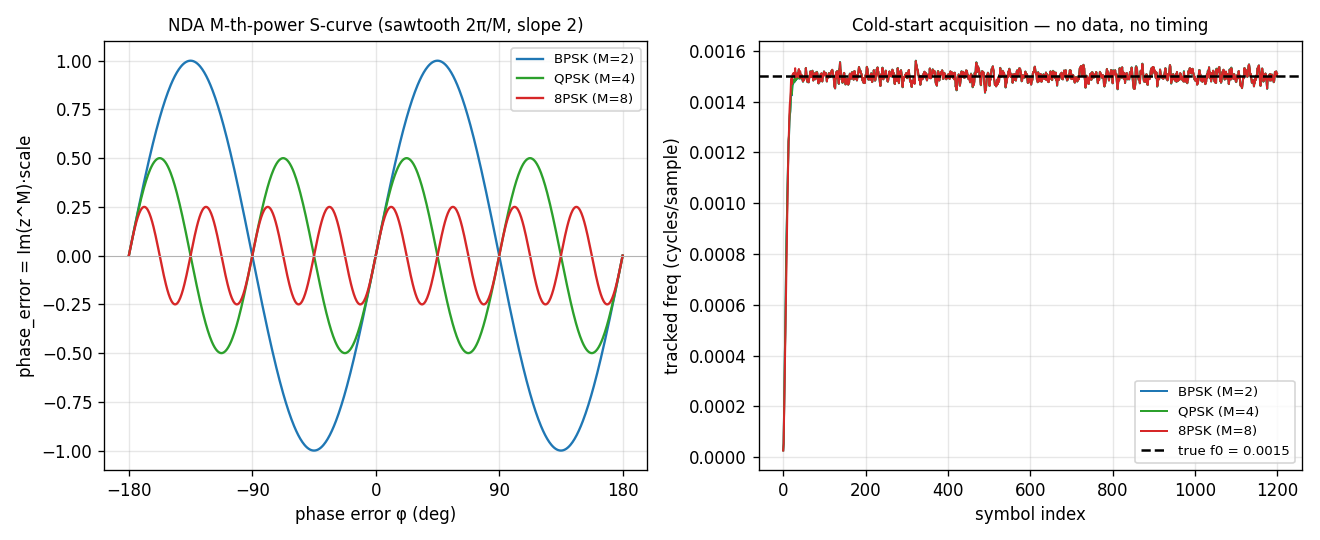
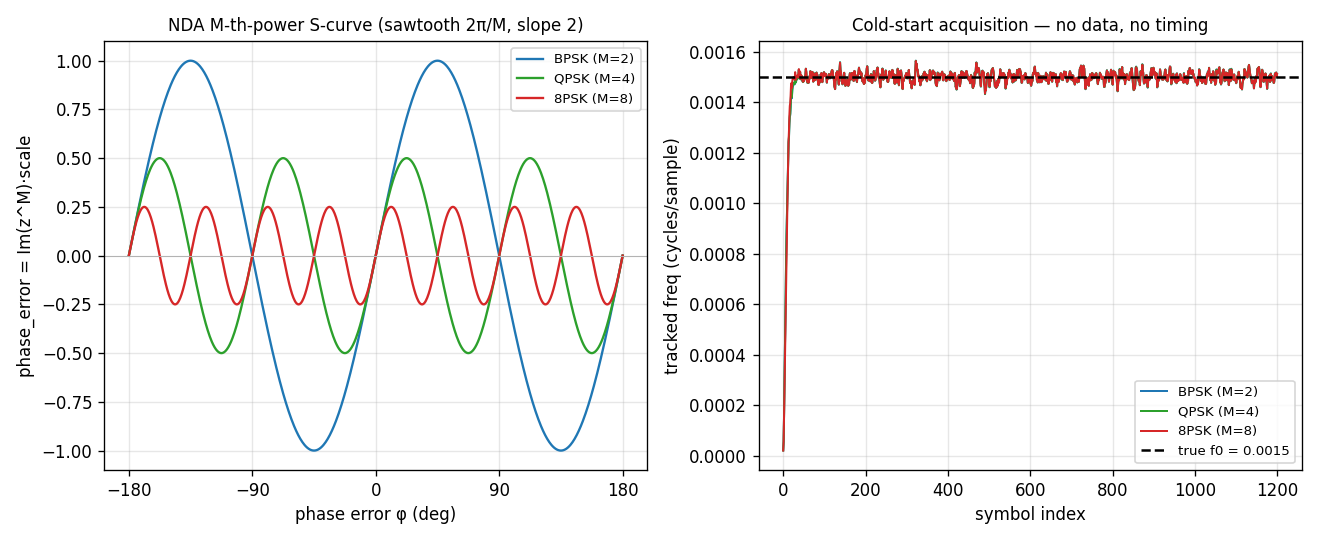
fix(examples): mpsk_nda_theory_demo builds the loop it describes
911c9d01 (#300) redefined CarrierNda's bn from per arm update to
cycles/sample. The demo kept bn=0.02, which at 2 samples per arm update
had been 0.01 cycles/sample, so its loop ran twice as wide. The tracked-
frequency jitter was 3x larger (5.5e-5 against 1.8e-5), and no assert saw
it. The loop is now a stated spec (BN_SPEC = 0.01 cycles/sample, zeta
0.707).

A new assert bounds the tail jitter by the loop's own theory,
sigma_f = sigma/(2 pi) sqrt(Kd wn^3 / (4 zeta)), at 1.5x. Kd is measured
from the demo's S-curve, and wn is read back from LoopFilter's PI gains.
The theory is 1.73e-5, the bound 2.60e-5, and the measurement 1.84e-5 to
1.89e-5. Sabotage (bn=0.02 in _acquire) fails the example gate and
`make gallery`. The re-rendered plot matches the pre-#300 one.

Closes #1675

Claude-Session: https://claude.ai/code/session_01BrZhANYiA19FGBsf5tumCu

diff --git a/src/doppler/examples/mpsk_nda_theory_demo.py b/src/doppler/examples/mpsk_nda_theory_demo.py
@@ -53,6 +53,16 @@ ORDERS = [
 SPS, N = 8, 4
 ARM = SPS // N
 
+# The acquisition panel's loop, as a SPEC: 0.01 cycles/sample, zeta 0.707.
+# 911c9d01 (#300) redefined CarrierNda's bn from "per arm update" to
+# cycles/sample. This demo used to pass bn=0.02, which at ARM = 2 samples per
+# update WAS 0.01 cycles/sample. After #300 the same literal built a loop
+# twice as wide and ~3x as jittery, and nothing noticed (#1675). The jitter
+# assert in main() is derived from this spec, so the loop _acquire builds
+# must be this loop.
+BN_SPEC, ZETA = 0.01, 0.707
+SIGMA = 0.05  # per-component noise std on the unit-amplitude carrier
+
 
 def _disc(m, phi):
     # near-zero bn + NCO at 0 => identity wipe-off; one arm dump => last_error
@@ -61,7 +71,7 @@ def _disc(m, phi):
     return c.last_error
 
 
-def _acquire(m, f0, nsym=1200, seed=0, sigma=0.05):
+def _acquire(m, f0, nsym=1200, seed=0, sigma=SIGMA):
     rng = np.random.default_rng(seed)
     k = np.arange(nsym * SPS)
     rx = np.exp(2j * np.pi * f0 * k)  # unmodulated carrier (no data)
@@ -69,12 +79,43 @@ def _acquire(m, f0, nsym=1200, seed=0, sigma=0.05):
         rng.standard_normal(k.size) + 1j * rng.standard_normal(k.size)
     )
     rx = rx.astype(np.complex64)
-    c = CarrierNda(bn=0.02, zeta=0.707, init_norm_freq=0.0, sps=SPS, n=N, m=m)
+    c = CarrierNda(
+        bn=BN_SPEC, zeta=ZETA, init_norm_freq=0.0, sps=SPS, n=N, m=m
+    )
     freq = np.empty(nsym)
     for s in range(nsym):
         c.steps(rx[s * SPS : (s + 1) * SPS])
         freq[s] = c.norm_freq
     return freq
+
+
+def _jitter_bound(kd):
+    """Tail frequency-jitter bound (cycles/sample) for the BN_SPEC loop.
+
+    The linearised type-2 loop, driven by white phase noise of variance
+    ``SIGMA**2`` rad^2 per sample (a unit carrier with per-component noise
+    ``SIGMA``), leaves its integrator -- the tracked frequency -- with
+
+        sigma_f = SIGMA / (2 pi) * sqrt(Kd * wn**3 / (4 zeta))
+
+    where Kd is the discriminator's slope at lock (the S-curve's, measured
+    by the caller) and wn the loop's natural frequency. wn is not restated
+    here: it is read back from the library's own PI gains, which for the
+    bilinear design satisfy ki/kp = wn*t/(2 zeta), at t = 1 (this loop
+    updates every sample). A step-by-step simulation of the discrete loop
+    (the 2-sample boxcar arm included) agrees with this closed form to 1%.
+    The loop measures ~8% above it, because the model is linear and leaves
+    out the M-th power's higher-order noise terms and the arm AGC, and a
+    600-symbol std is itself uncertain by several percent. So the bound is
+    1.5x the theory: loose enough for both, and well below the ~2.8x that
+    doubling the bandwidth costs (sigma_f grows as bn**1.5).
+    """
+    from doppler.track import LoopFilter
+
+    lf = LoopFilter(BN_SPEC, ZETA, 1.0)
+    wn = 2.0 * ZETA * lf.ki / lf.kp
+    theory = SIGMA / (2 * np.pi) * np.sqrt(kd * wn**3 / (4 * ZETA))
+    return 1.5 * theory, theory
 
 
 def main(out_path="mpsk_nda_theory_demo.png"):
@@ -116,6 +157,16 @@ def main(out_path="mpsk_nda_theory_demo.png"):
         tail_err = abs(float(np.mean(freq[-300:])) - f0)
         print(f"{name}: tail freq err {tail_err:.2e} cycles/sample")
         assert tail_err < 1e-4, f"{name} failed to acquire the carrier"
+        # And it must sit on it with the jitter of the BN_SPEC loop: a
+        # loop built wider than the spec (bn=0.02 is ~2.8x) fails here.
+        kd = (_disc(m, 1e-3) - _disc(m, -1e-3)) / 2e-3  # slope at lock
+        bound, theory = _jitter_bound(kd)
+        jitter = float(np.std(freq[-600:]))
+        print(
+            f"{name}: tail freq jitter {jitter:.2e} (theory {theory:.2e}, "
+            f"bound {bound:.2e}) cycles/sample"
+        )
+        assert jitter < bound, f"{name} tracks with more jitter than BN_SPEC"
     b.axhline(f0, color="k", ls="--", lw=1.5, label=f"true f0 = {f0}")
     b.set_xlabel("symbol index")
     b.set_ylabel("tracked freq (cycles/sample)")

diff --git a/changelog.d/fixed/nda-demo-bn-units.md b/changelog.d/fixed/nda-demo-bn-units.md
@@ -1,0 +1,5 @@
+- **The NDA carrier gallery plot shows the loop it describes again.**
+    `mpsk_nda_theory_demo.py` kept `bn=0.02` after #300 made `bn`
+    cycles/sample, so its loop ran twice as wide with ~3x the jitter. It now
+    builds the 0.01 cycles/sample loop and asserts the jitter against the
+    loop's own theory (#1675).
